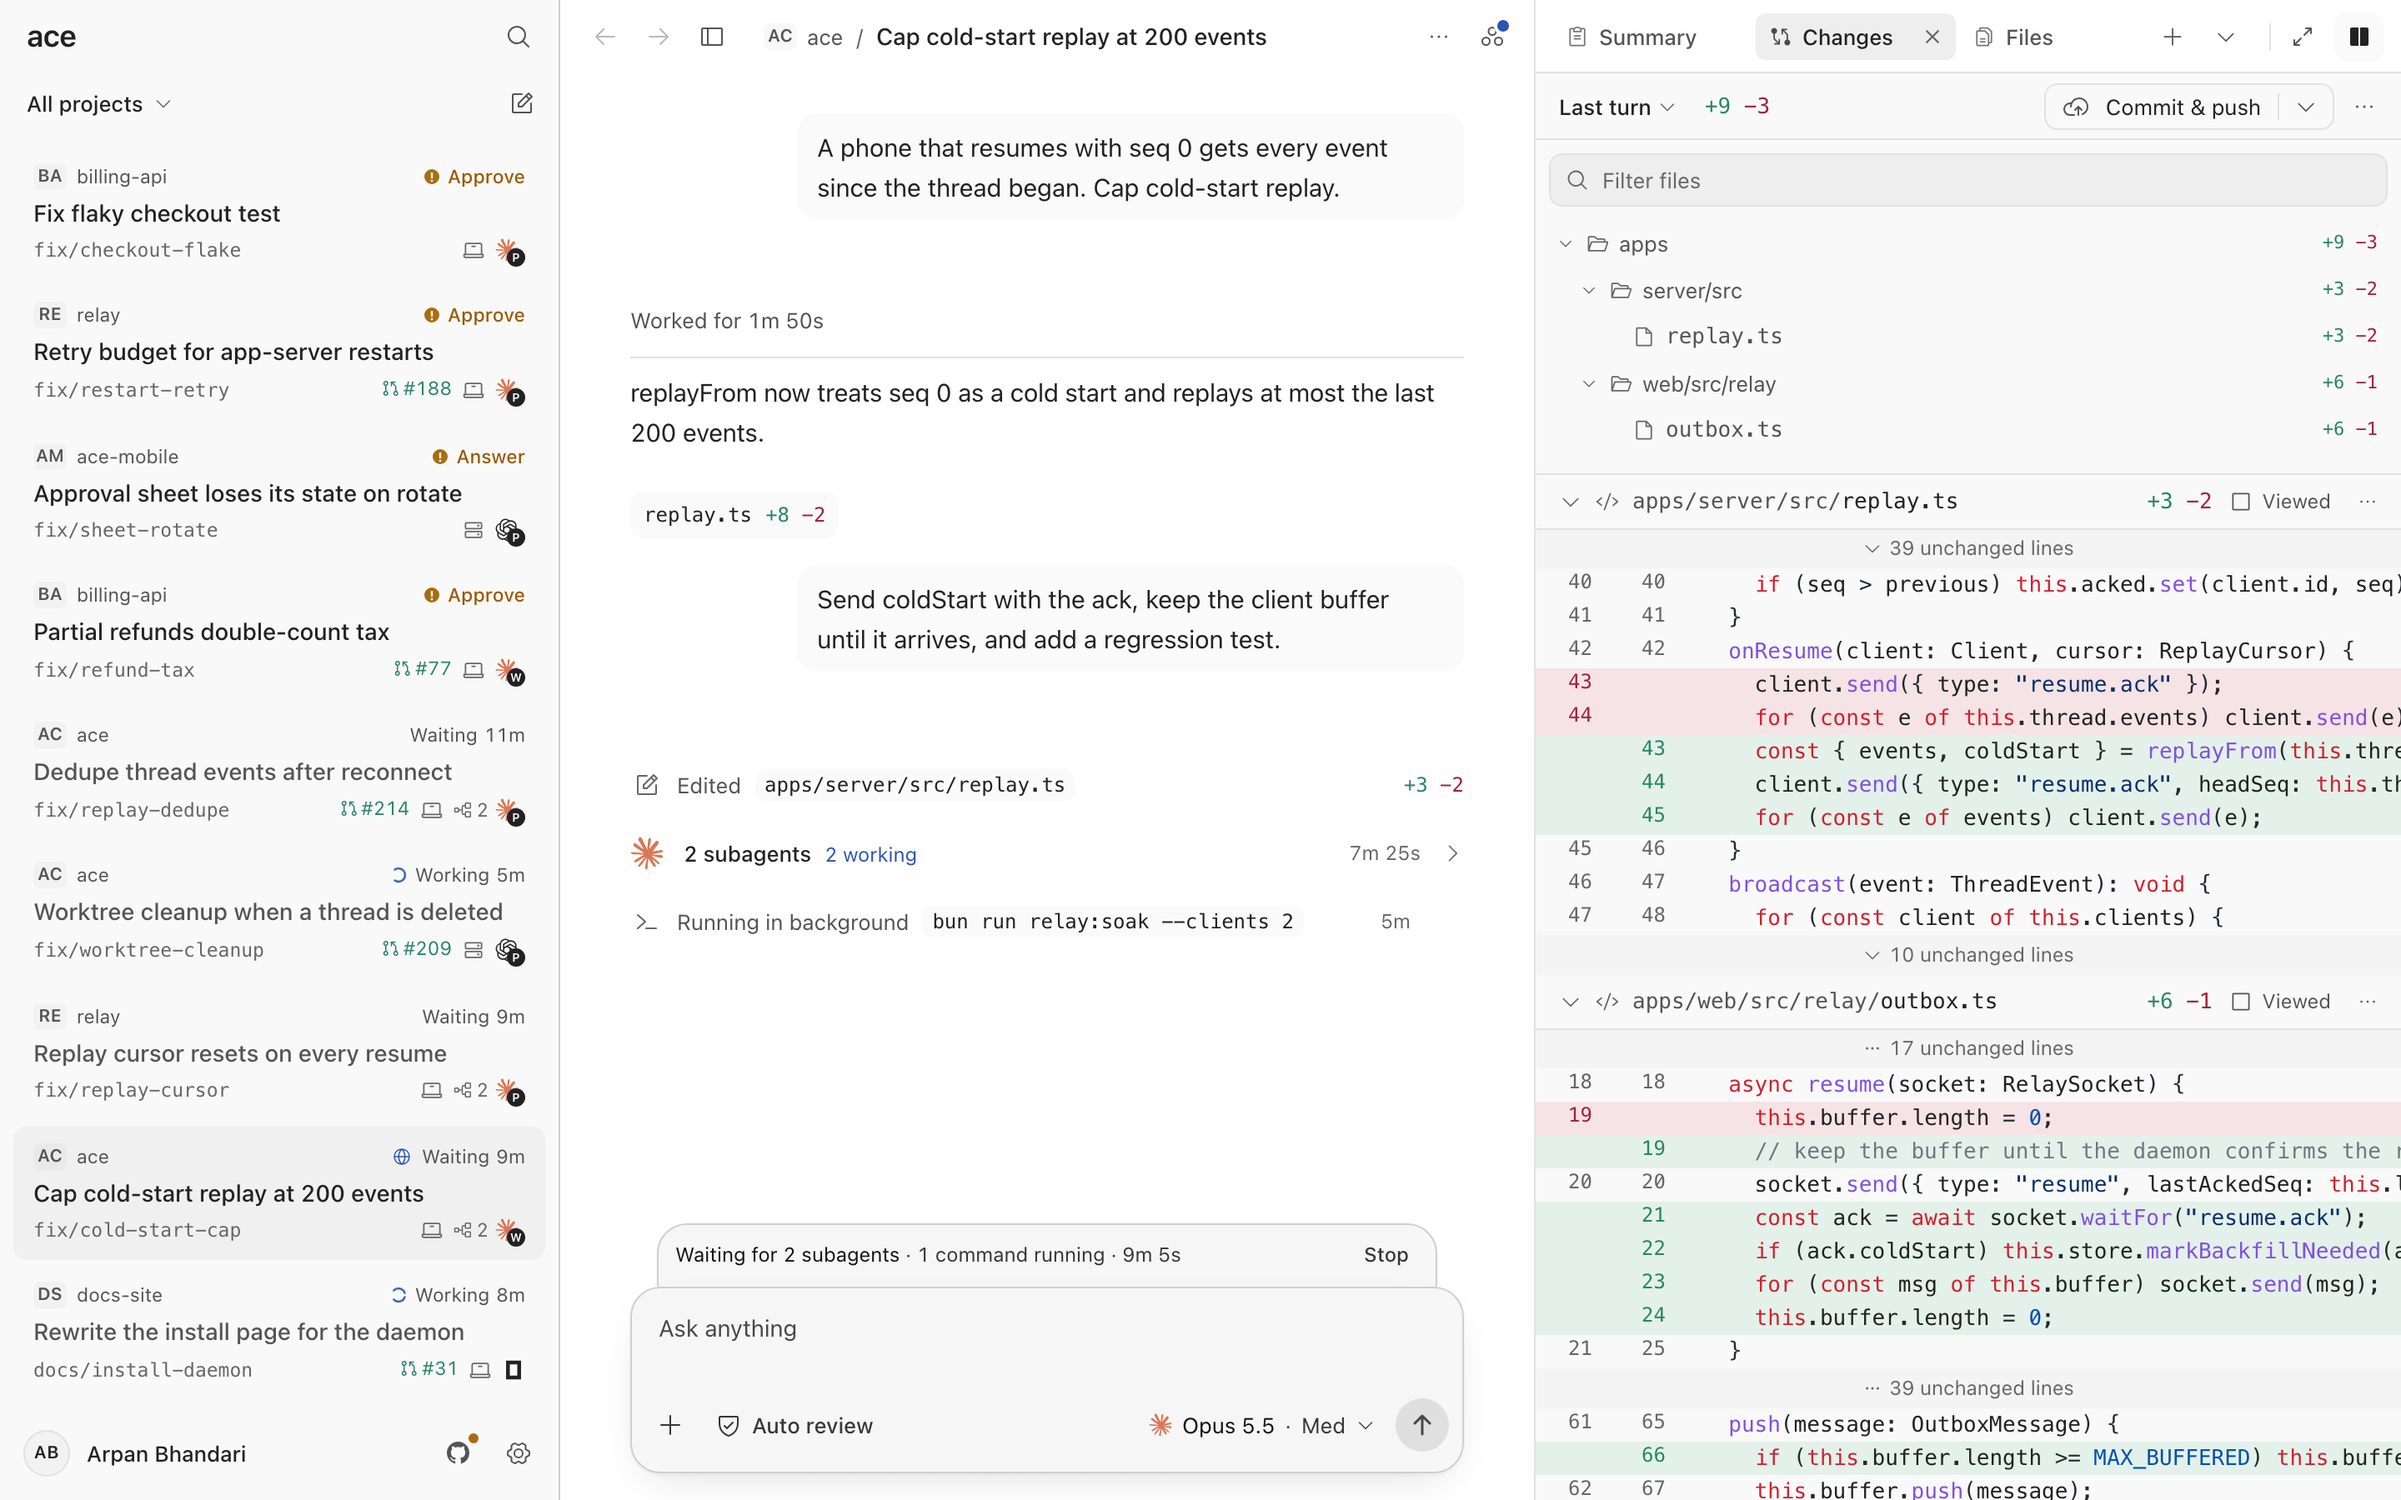
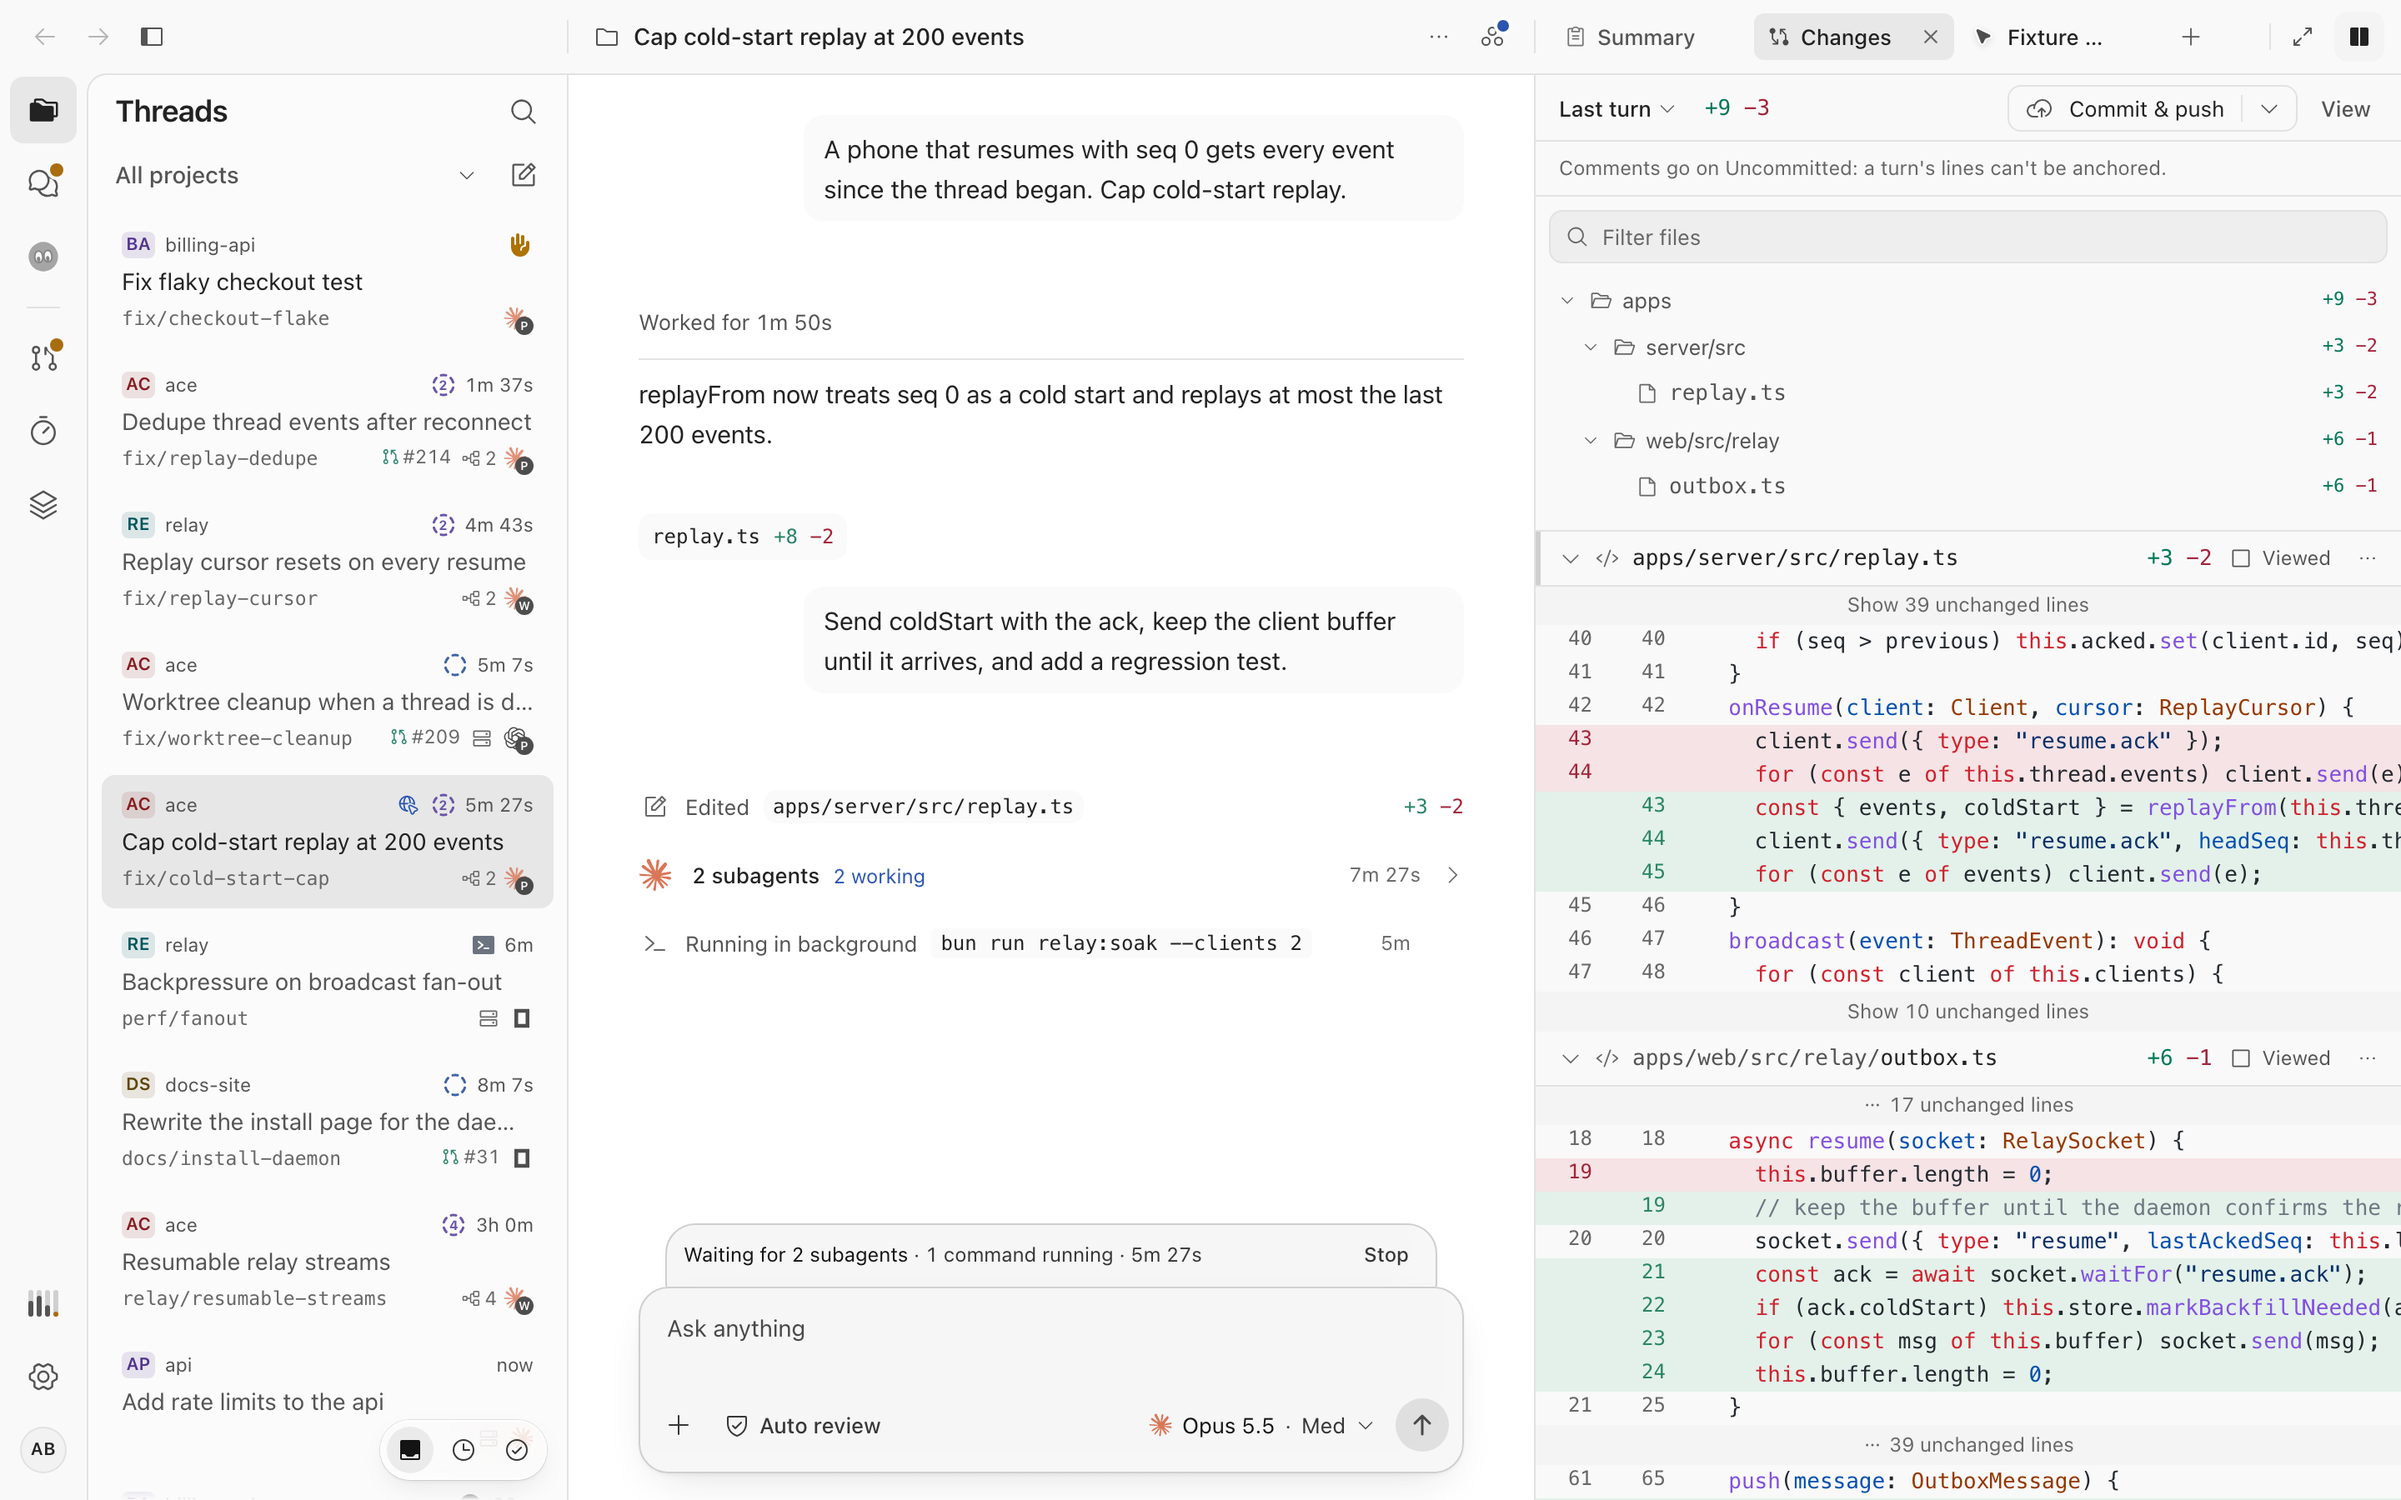
Retake the marketing screenshots from the current app
The home and review captures showed the old sidebar and a column of
Approve and Answer rows. The showcase world now leaves out two approval
threads and the question thread, so the list reads as one approval among
working, waiting and finished threads. Retaken in the rail sidebar, dark
and light, at 1440x900 2x.

diff --git a/packages/fake-daemon/src/scenarios/dev-world.ts b/packages/fake-daemon/src/scenarios/dev-world.ts
@@ -93,15 +93,23 @@ export function devWorld(): WorldThread[] {
 }
 
 /**
- * A small, tidy world for product screenshots (`?fakeWorld=showcase`): seven threads, each in a
- * different state, with the cold-start thread open and reporting live. None
- * of the dev world's edge cases, so a capture reads at a glance.
+ * Home list threads the showcase leaves out, so one approval sits among working, waiting and
+ * finished threads instead of a column of requests.
+ */
+const showcaseSkips = new Set(["thread-retry-budget", "thread-refund-tax", "thread-sheet-rotate"]);
+
+/**
+ * A small, tidy world for product screenshots (`?fakeWorld=showcase`): threads in a balanced
+ * mix of states (mostly working, one approval), with the cold-start thread open and reporting
+ * live. None of the dev world's edge cases, so a capture reads at a glance.
  */
 export function showcaseWorld(): WorldThread[] {
   return withAccounts([
     // The skills and read-state seeds in the fake boot point at this thread.
     { scenario: multiDayDemo(), agoMs: 0 },
-    ...homeList().map((aged) => ({ scenario: aged.scenario, agoMs: aged.agoMs })),
+    ...homeList()
+      .filter((aged) => !showcaseSkips.has(aged.scenario.thread.id))
+      .map((aged) => ({ scenario: aged.scenario, agoMs: aged.agoMs })),
     {
       scenario: flakyCheckout(),
       agoMs: 3 * minute,
